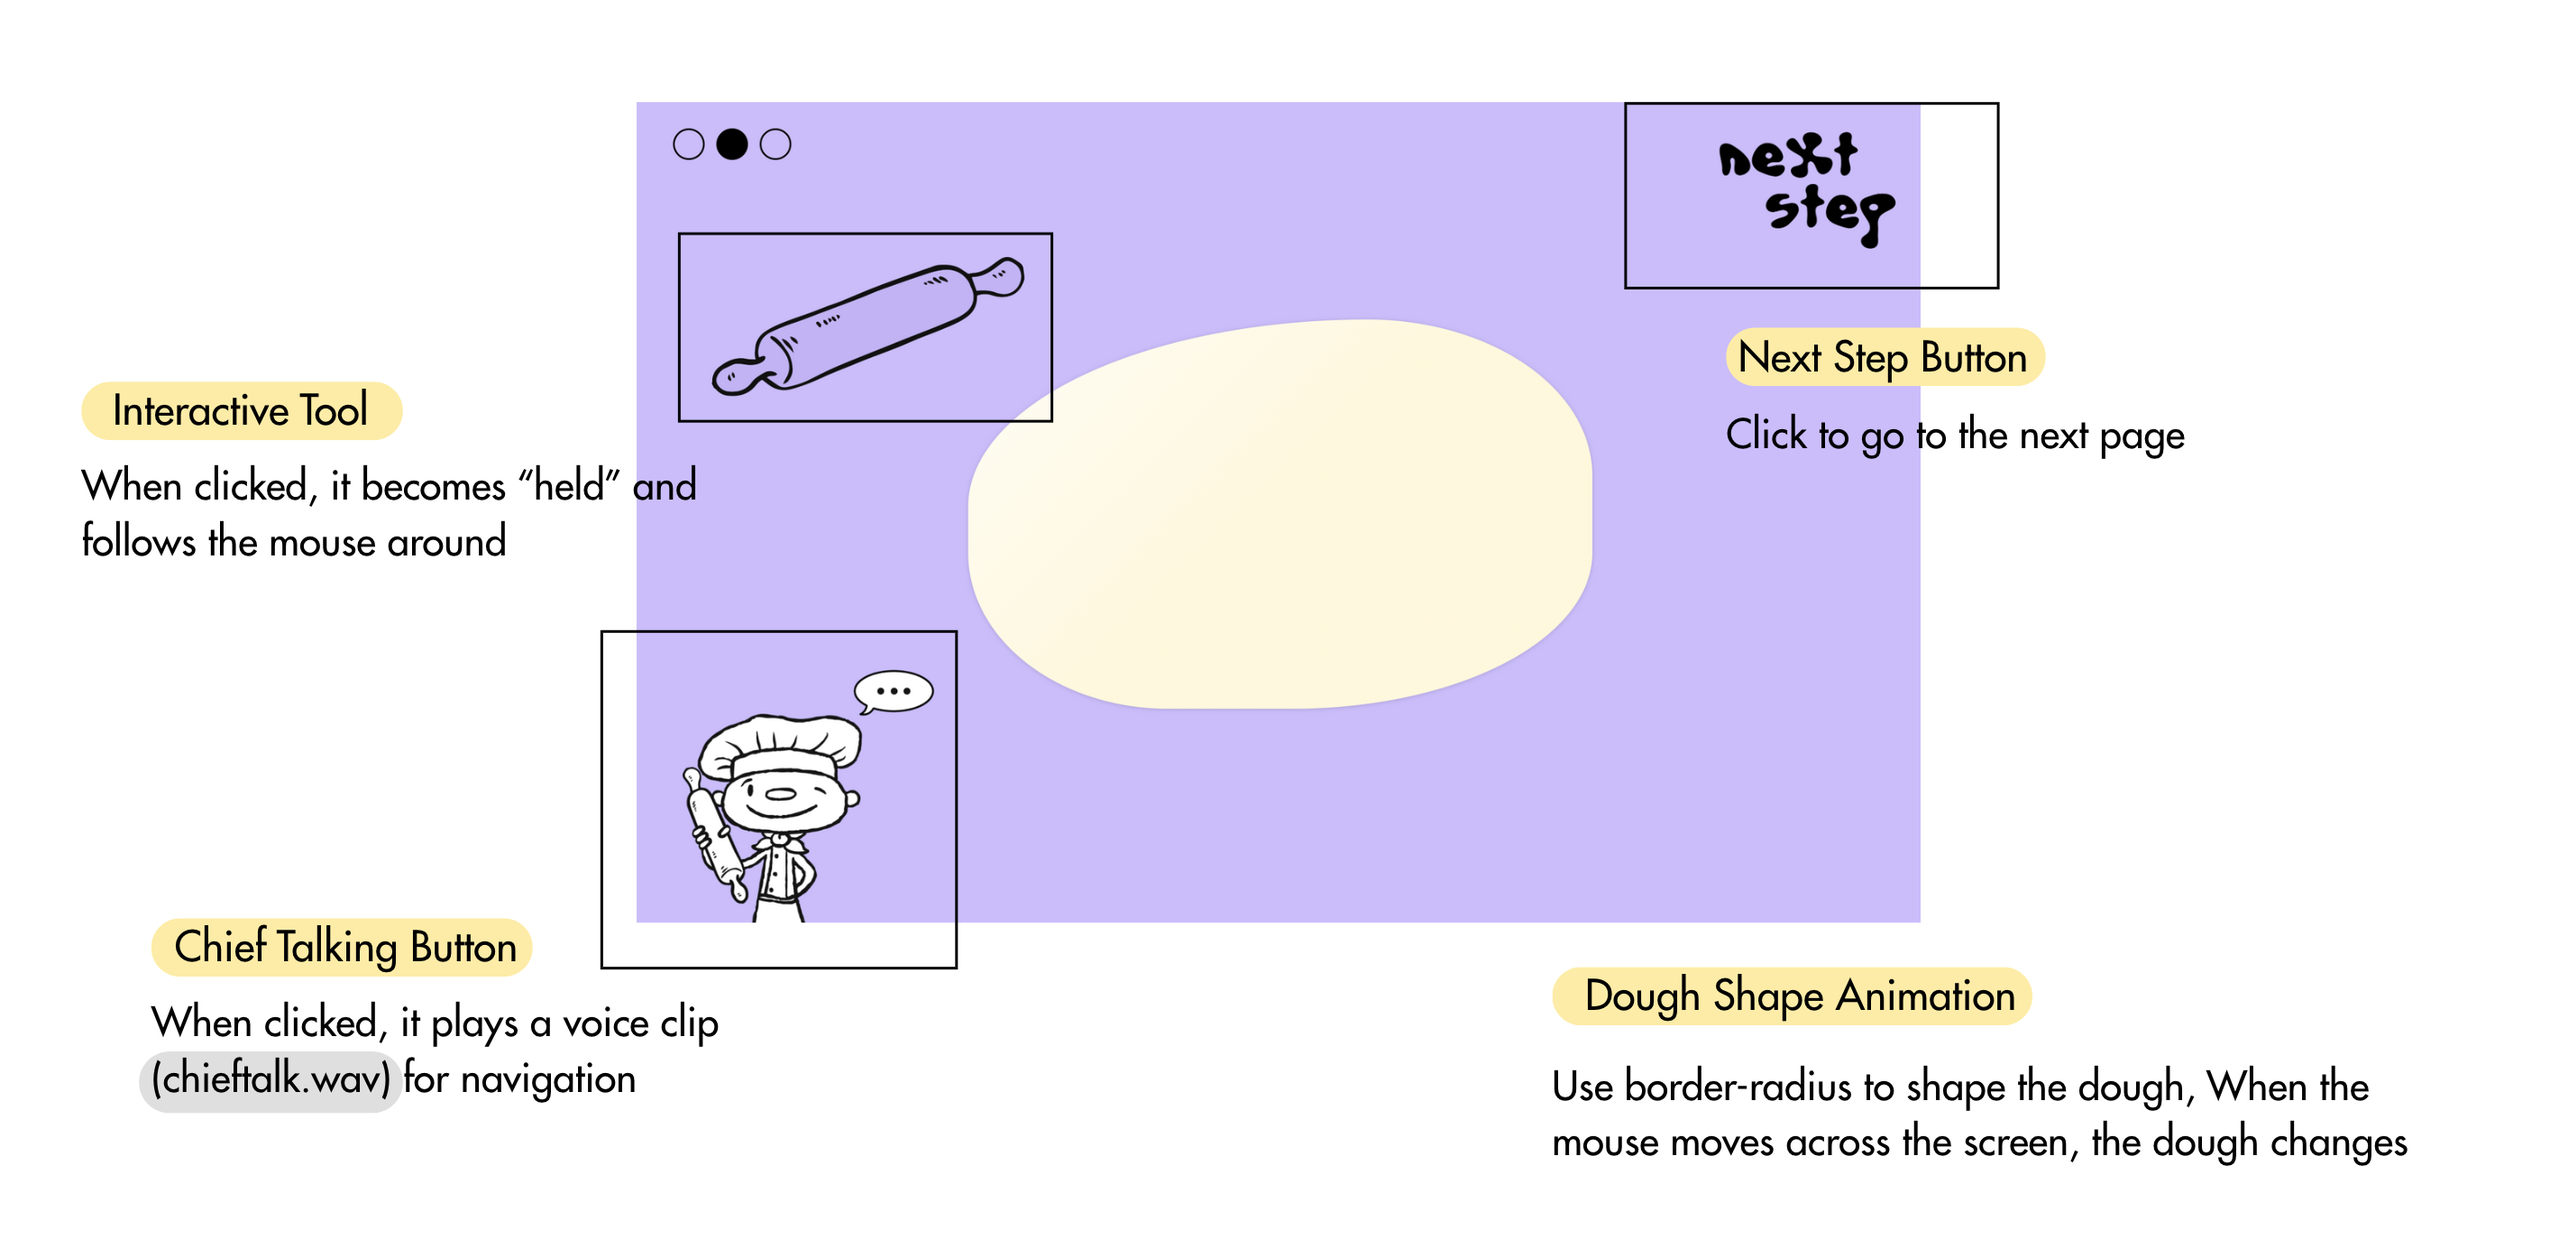
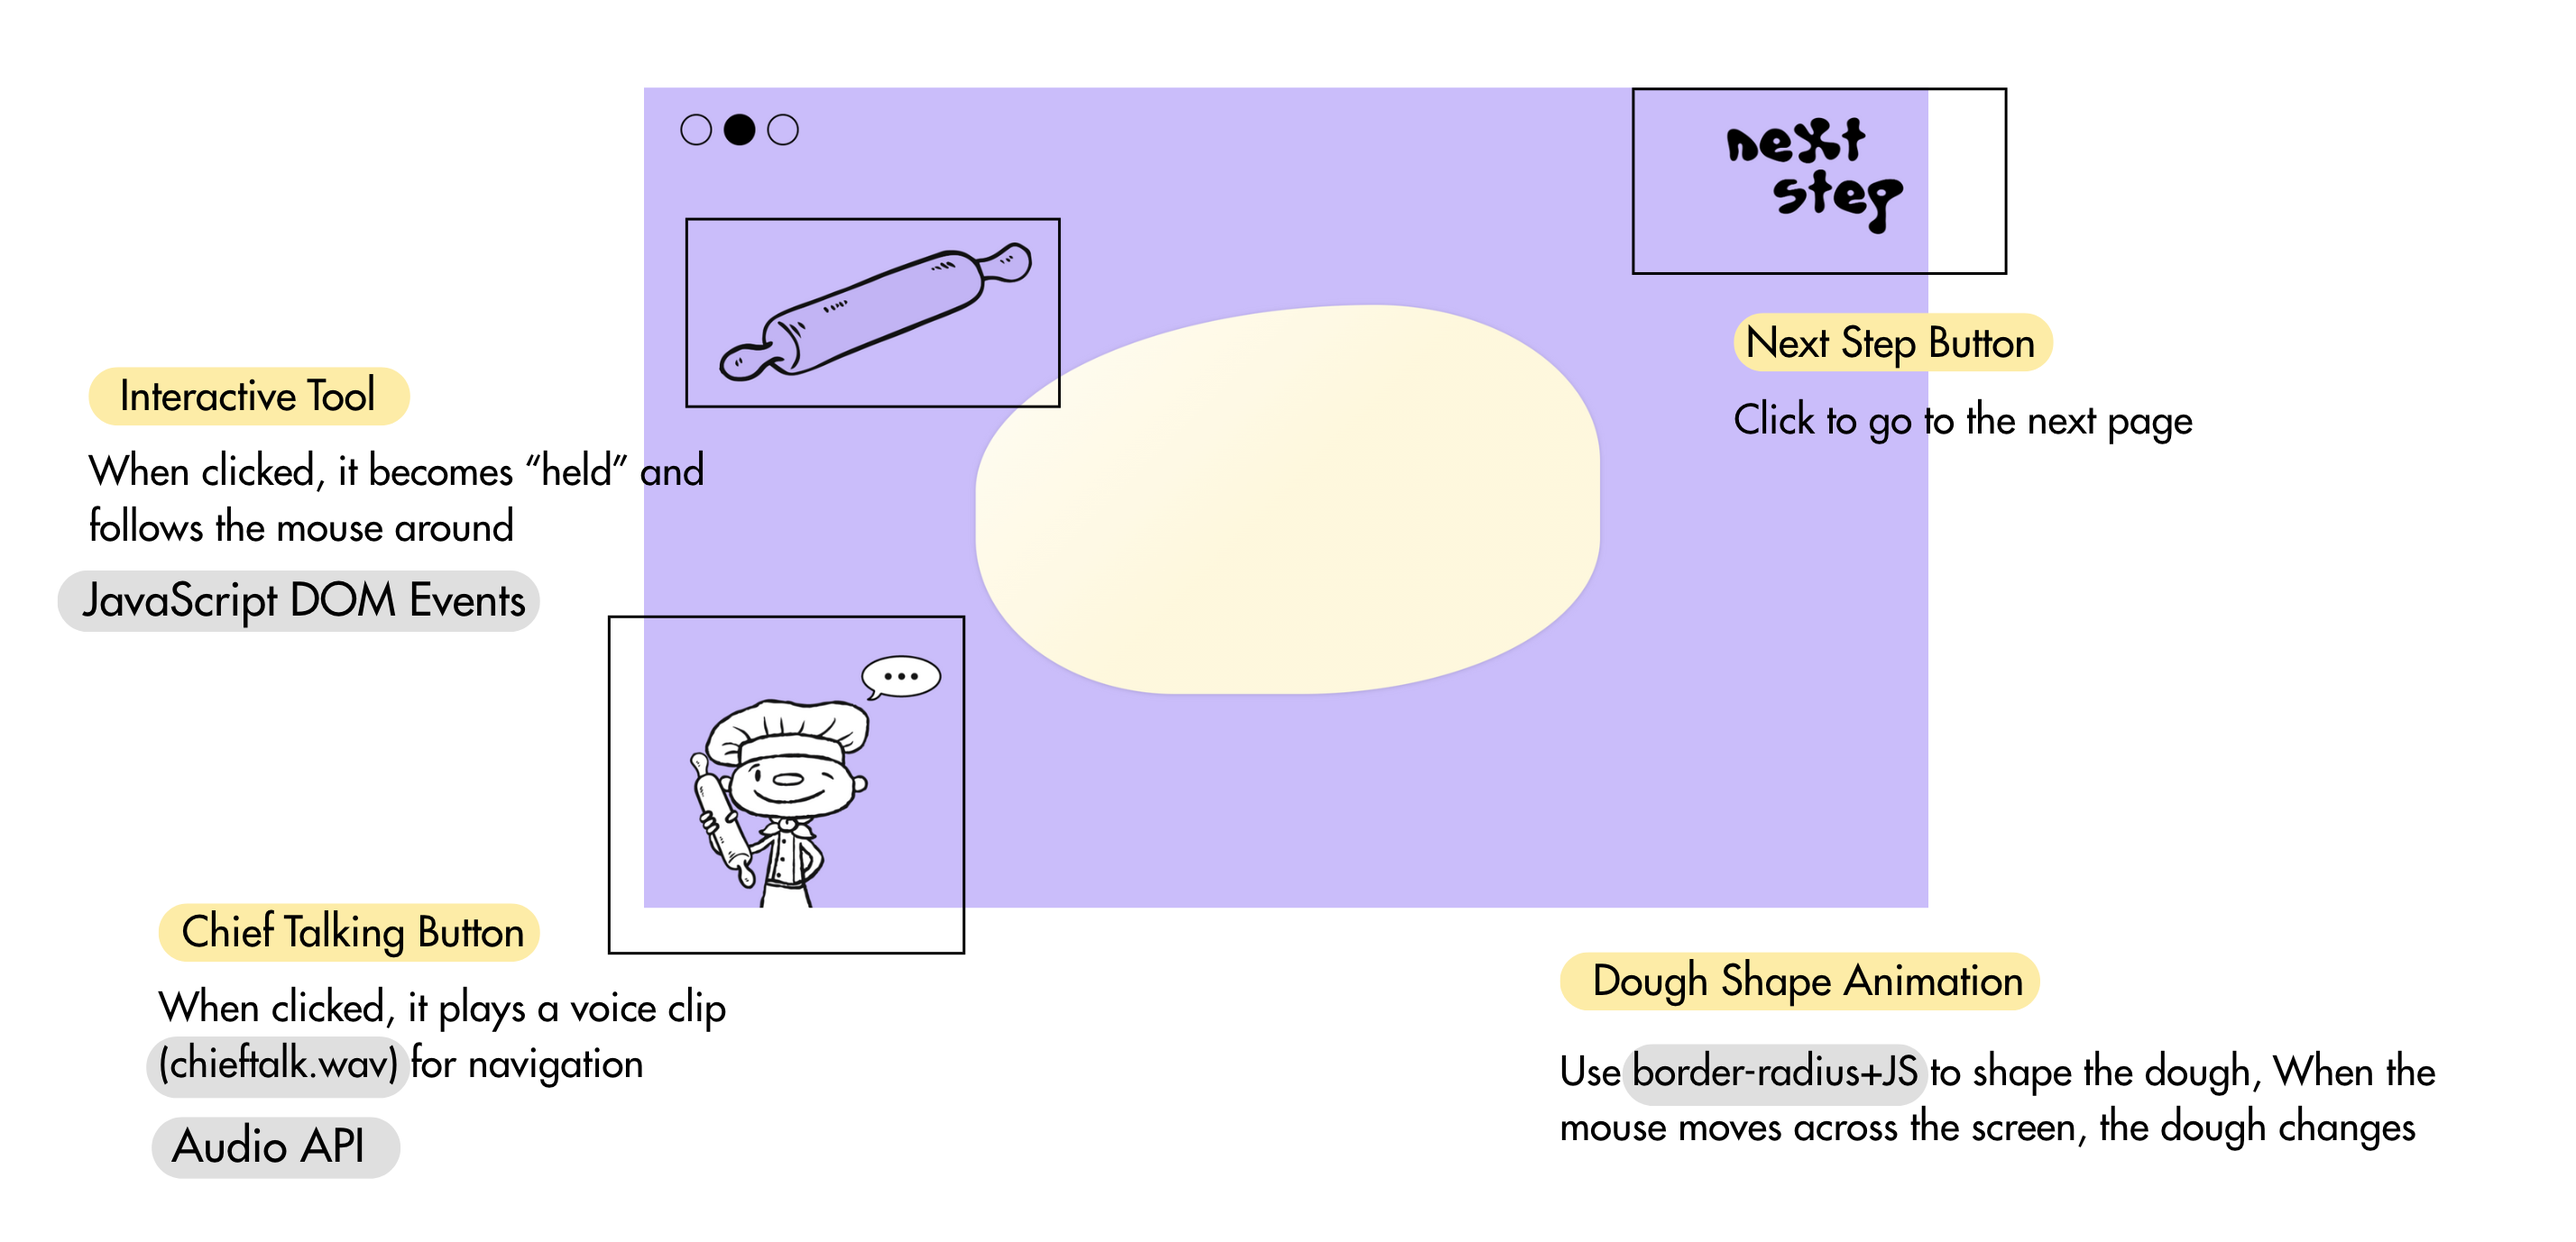
upadted

diff --git a/Assignment3/index.html b/Assignment3/index.html
@@ -110,20 +110,20 @@
           I chose to use <span class="highlight">lightweight, browser-friendly technologies</span> like HTML, CSS, JavaScript, and some Matter.js to keep the project accessible and manageable. Each page focused on a different type of interaction — from button clicks to drag-and-drop to soft-body physics — so I had to carefully plan which tools to use based on the complexity of the feature.
 
           <h4>1. Home Page</h4>
-          I focused on sound interaction using hover effects and background music triggered by clicks, setting a playful tone from the start.
+          I used HTML to structure basic elements,like a "Start" button. With CSS, I styled the layout and added playful visual elements like dog images to set the tone. JavaScript was used to control the background music—for example, playing or pausing the audio when click the button
           <img src="home.png" alt="Home preview" class="page-image" />
 
           <h4>2. Ingredients Page</h4>
-          I used Matter.js to simulate gravity and added sound effects to enhance interaction.
+          I created a canvas-based interface where users could drop ingredients (different shape) using external libraries to simulate physics and gravity. I also added sound effects during dragging to enhance feedback.Instead of simple buttons, the ingredients were draggable objects affected by real-time forces.
           <img src="ingredient.png" alt="Ingredients preview" class="page-image" />
 
           <h4>3. Dough Page</h4>
-          I combined CSS animations with JavaScript to create a soft, pokeable dough without overly complex code.
+          I implemented a shape that morphs in response to the mouse using CSS border-radius and JavaScript. This part was technically challenging because I had never made shape animations before. I used mousemove events to adjust the dough’s shape dynamically, simulating softness and interactivity. I also added a draggable tool icon that follows the mouse when clicked and held.
           <img src="dough.png" alt="Dough preview" class="page-image" />
 
           <h4>4. Drawing Page</h4>
-          Using the Canvas API, users can draw on the oven and export their final decoration.
-          <img src="drawing.png" alt="Drawing preview" class="page-image" />
+          I layered a canva element over an image of an oven using HTML and CSS. With JavaScript, I enabled freehand drawing on the canvas and allowed users to pick colors, undo, and export their artwork as an image. I also added sound effects (like chalk noise) to make the drawing experience more fun.
+         <img src="drawing.png" alt="Drawing preview" class="page-image" />
         </td>
       </tr>
 
